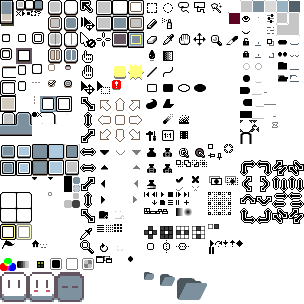
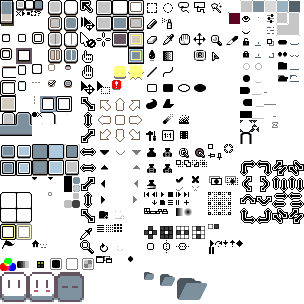
Art ref working when selected (but only borders for now)

Changed region(s): [[0.4145, 0.0888, 0.4737, 0.2368], [0.6217, 0.148, 0.7401, 0.2072]]

diff --git a/src/app/ui/editor/editor.cpp b/src/app/ui/editor/editor.cpp
@@ -1123,7 +1123,11 @@ void Editor::drawArtRefs(ui::Graphics* g)
     out.offset(-bounds().origin());
 
     PaintWidgetPartInfo info;
-    theme->paintWidgetPart(g, theme->styles.artrefItemNormal(), out, info);
+    if (isArtRefSelected(artRef) && getCurrentEditorInk()->isArtRef()) {
+      info.styleFlags |= ui::Style::Layer::kSelected;
+    }
+
+    theme->paintWidgetPart(g, theme->styles.artRefItemNormal(), out, info);
   }
 }
 
@@ -2612,6 +2616,26 @@ EditorHit Editor::calcHit(const gfx::Point& mouseScreenPos)
               hit.setSlice(slice);
               return hit;
             }
+          }
+        }
+      }
+    }
+    else if (ink->isArtRef()) {
+      //if (m_docPref.show.artRefs()) {
+      if (true) {
+        gfx::Point mainOffset(mainTilePosition());
+
+        for (auto artRef : m_sprite->artRefs()) {
+          gfx::Rect bounds = artRef->bounds();
+          bounds.offset(mainOffset);
+          bounds = editorToScreen(bounds);
+
+          // Move bounds
+          if (bounds.contains(mouseScreenPos) &&
+              !bounds.shrink(5 * guiscale()).contains(mouseScreenPos)) {
+            EditorHit hit(EditorHit::ArtRefBounds);
+            hit.setArtRef(artRef);
+            return hit;
           }
         }
       }

diff --git a/src/app/ui/editor/editor_hit.h b/src/app/ui/editor/editor_hit.h
@@ -10,6 +10,7 @@
 
 namespace doc {
 class Slice;
+class ArtRef;
 }
 
 namespace app {
@@ -22,21 +23,25 @@ public:
     None,
     SliceBounds,
     SliceCenter,
+    ArtRefBounds,
   };
 
-  EditorHit(Type type) : m_type(type), m_border(0), m_slice(nullptr) {}
+  EditorHit(Type type) : m_type(type), m_border(0), m_slice(nullptr), m_artRef(nullptr) {}
 
   Type type() const { return m_type; }
   int border() const { return m_border; }
   doc::Slice* slice() const { return m_slice; }
+  doc::ArtRef* artRef() const { return m_artRef; }
 
   void setBorder(int border) { m_border = border; }
   void setSlice(doc::Slice* slice) { m_slice = slice; }
+  void setArtRef(doc::ArtRef* artRef) { m_artRef = artRef; }
 
 private:
   Type m_type;
   int m_border;
   doc::Slice* m_slice;
+  doc::ArtRef* m_artRef;
 };
 
 } // namespace app

diff --git a/src/app/ui/editor/standby_state.cpp b/src/app/ui/editor/standby_state.cpp
@@ -249,6 +249,18 @@ bool StandbyState::onMouseDown(Editor* editor, MouseMessage* msg)
         return true;
     }
   }
+  else if (clickedInk->isArtRef()) {
+    EditorHit hit = editor->calcHit(msg->position());
+    switch (hit.type()) {
+      case EditorHit::ArtRefBounds:
+        if (msg->left()) {
+          // If we click outside all slices, we clear the selection of slices.
+          if (hit.artRef()) {
+            editor->selectArtRef(hit.artRef());
+          }
+        }
+    }
+  }
 
   // Only if the selected tool or quick tool is selection, we give the
   // possibility to transform/move the selection. In other case,

diff --git a/src/app/ui/editor/drawing_state.cpp b/src/app/ui/editor/drawing_state.cpp
@@ -292,6 +292,10 @@ bool DrawingState::onSetCursor(Editor* editor, const gfx::Point& mouseScreenPos)
     auto theme = skin::SkinTheme::get(editor);
     editor->showMouseCursor(kCustomCursor, theme->cursors.eyedropper());
   }
+  else if (m_toolLoop->getInk()->isArtRef()) {
+    auto theme = skin::SkinTheme::get(editor);
+    editor->showMouseCursor(kCustomCursor, theme->cursors.artRef());
+  }
   else {
     editor->showBrushPreview(mouseScreenPos);
   }

diff --git a/src/app/ui/editor/state_with_wheel_behavior.cpp b/src/app/ui/editor/state_with_wheel_behavior.cpp
@@ -543,6 +543,10 @@ bool StateWithWheelBehavior::onSetCursor(Editor* editor, const gfx::Point& mouse
       editor->showMouseCursor(kMoveCursor);
       return true;
     }
+    else if (ink->isArtRef()) {
+      editor->showMouseCursor(kCustomCursor, theme->cursors.artRef());
+      return true;
+    }
   }
 
   // Draw

diff --git a/src/app/tools/inks.h b/src/app/tools/inks.h
@@ -501,6 +501,8 @@ class ArtRefInk : public BaseInk {
   Ink* clone() override { return new ArtRefInk(*this); }
 
   bool isArtRef() const override { return true; }
+  void prepareInk(ToolLoop* loop) override {}
+  void inkHline(int x1, int y, int x2, ToolLoop* loop) override {}
 };
 
 }} // namespace app::tools
